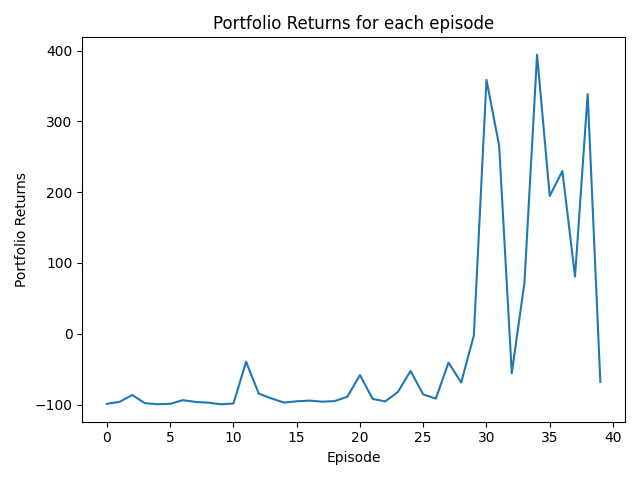
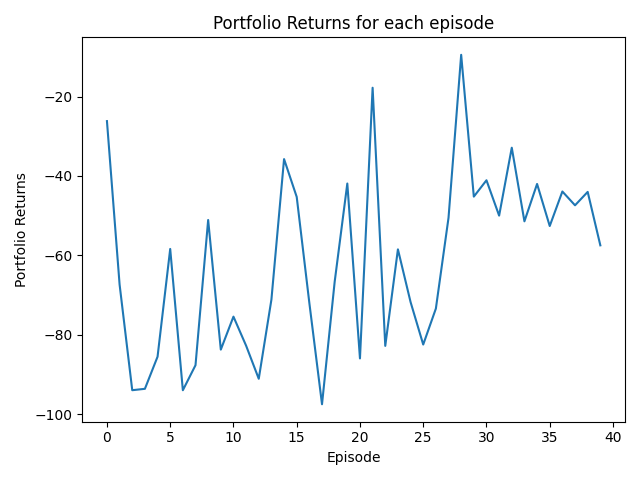
Base DQN testrun

diff --git a/base_testrun_main.py b/base_testrun_main.py
@@ -1,0 +1,36 @@
+import gymnasium as gym
+import gym_trading_env
+import pickle
+from utils import plot_portfolio_returns,load_stock_data
+from agent import DeepQAgent
+
+url = "https://raw.githubusercontent.com/ClementPerroud/Gym-Trading-Env/main/examples/data/BTC_USD-Hourly.csv"
+df = load_stock_data(url=url)
+env = gym.make("TradingEnv",
+               name= "BTCUSD",
+               df = df,
+               positions = [ -0.5, 0, 1],
+               trading_fees = 0.01/100,
+               borrow_interest_rate= 0.0003/100,
+              #  reward_function = c_reward,
+    )
+
+agent = DeepQAgent(7, 3)
+with open('base_agent_state_dict.p','rb') as f:
+    state_dict = pickle.load(f)
+agent.set_params(state_dict)
+episodes = 10
+
+returns = []
+
+for i in range(episodes):
+    obs, info = env.reset()
+    done, truncated = False, False
+    while not done and not truncated:
+        action = agent.choose_greedy_action(obs)
+        next_obs, reward, done, truncated, info = env.step(action)
+        obs = next_obs
+    ret = float(env.unwrapped.get_metrics()["Portfolio Return"].strip("%"))
+    returns.append(ret)
+    print("Episode: ",i+1, ", Portfolio Return: ",ret)
+plot_portfolio_returns(returns, "per_portfolio_returns_test.png")

diff --git a/base_trainingloop_main.py b/base_trainingloop_main.py
@@ -1,5 +1,6 @@
 import gymnasium as gym
 import gym_trading_env
+import pickle
 from utils import load_stock_data, plot_epsilon_and_rewards, plot_portfolio_returns
 from agent import DeepQAgent
 
@@ -8,7 +9,7 @@ df = load_stock_data(url=url)
 env = gym.make("TradingEnv",
                name= "BTCUSD",
                df = df,
-               positions = [ -1, 0, 1],
+               positions = [ -0.5, 0, 1],
                trading_fees = 0.01/100,
                borrow_interest_rate= 0.0003/100,
               #  reward_function = c_reward,
@@ -43,4 +44,9 @@ for i in range(episodes):
     print("Episode: ", i+1, ", Cum rewards: ", rewards, ", Agent exploration rate: ", agent.eps, ", Steps taken: ", agent.iter_cntr)
 plot_epsilon_and_rewards(epsilon_history, cum_reward_history, "training_rewards.png")
 plot_portfolio_returns(returns, "portfolio_returns_training.png")
+
+state_dict = agent.get_params()
+with open('base_agent_state_dict.p','wb') as f:
+    pickle.dump(state_dict,f)
+print("Plots and state dictionary saved successfully")
 
